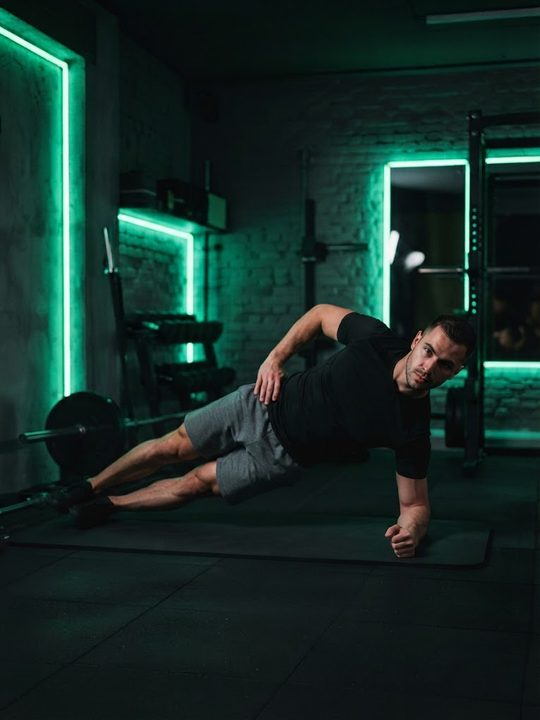
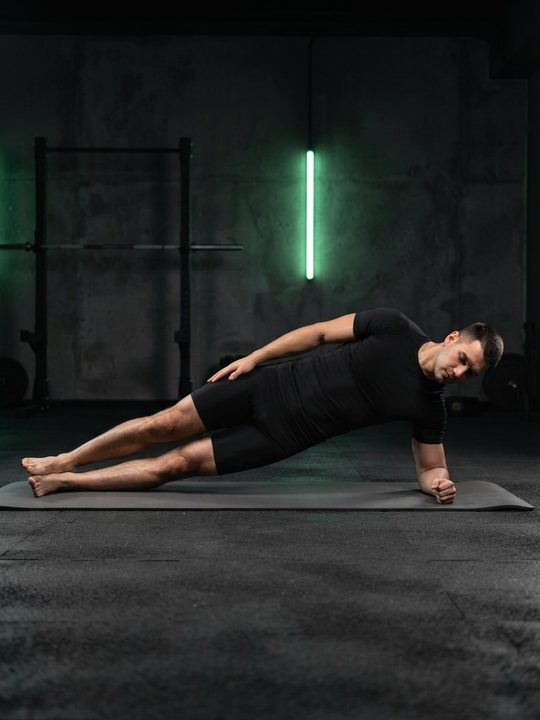
side_bridge Bildset m/w
Claude-Session: https://claude.ai/code/session_01PvyiLGJFyas6muFwwubScP

diff --git a/script.js b/script.js
@@ -528,7 +528,7 @@ function renderOverview() {
 // V8-04: Wochenplan-Einträge (haben trainingId) sind anklickbar -> Detailseite mit Dauer/Kalorien.
 // V6-08: Verlauf als Foto-Kacheln mit Wochenkopf, Gruppierung nach Woche/Monat.
 let imgSet = new Set();
-fetch('img/index.json?v=17').then(r => r.json()).then(a => { imgSet = new Set(a); }).catch(() => {});
+fetch('img/index.json?v=18').then(r => r.json()).then(a => { imgSet = new Set(a); }).catch(() => {});
 function slugOf(g) { return (g || '').replace(/^gifs\//, '').replace(/\.gif$/, ''); }
 // Foto passend zum Profil (m/w); ohne Foto -> GIF
 function imgOf(ex) {
